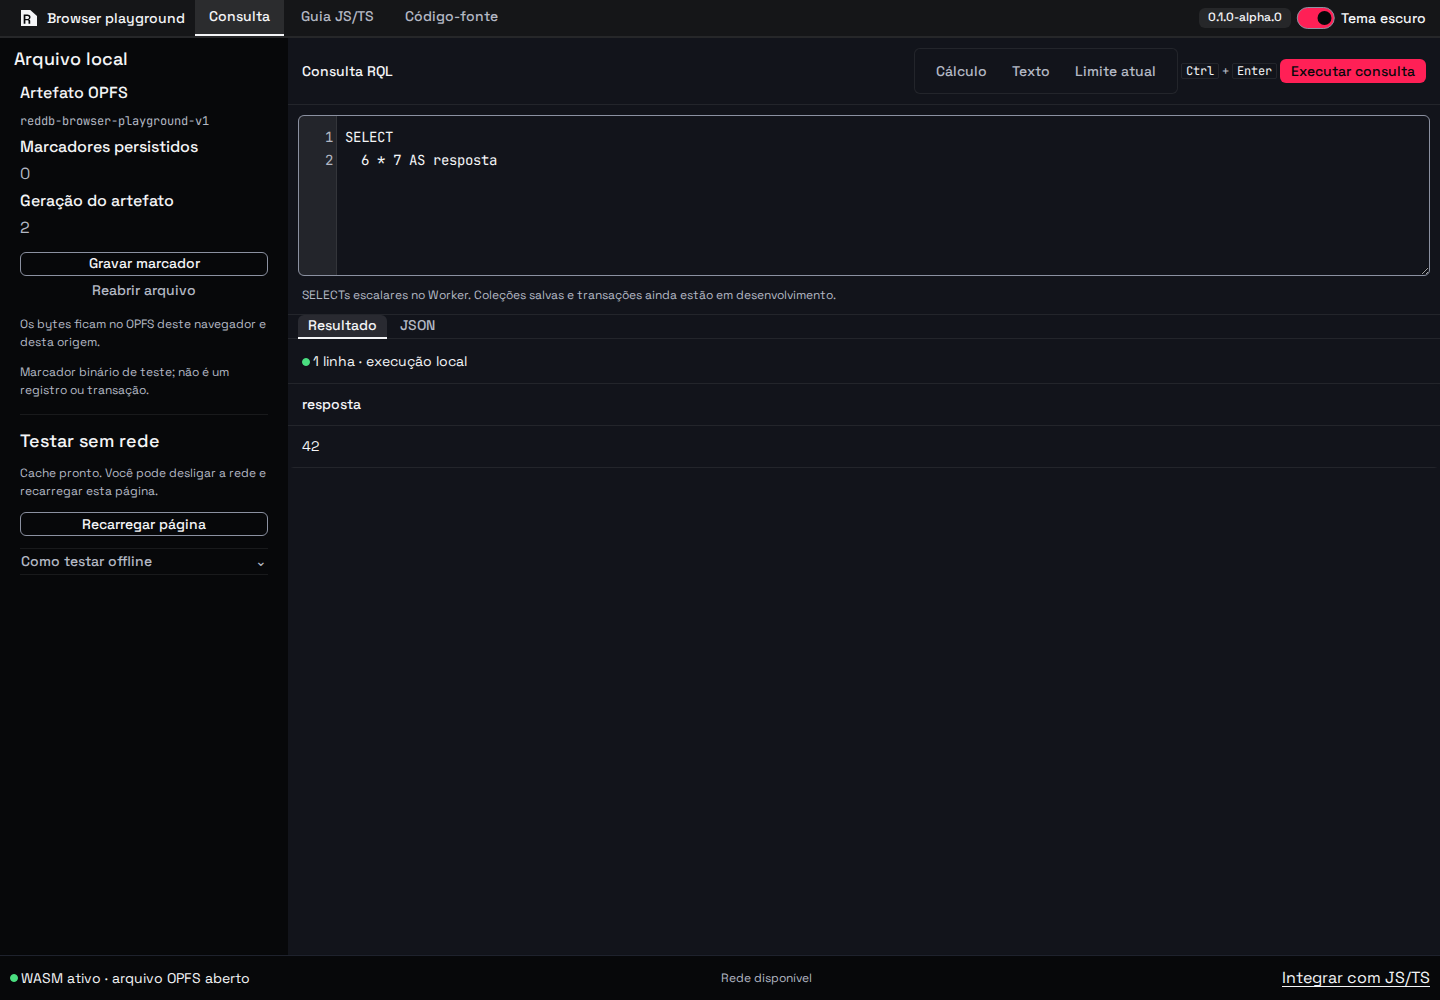
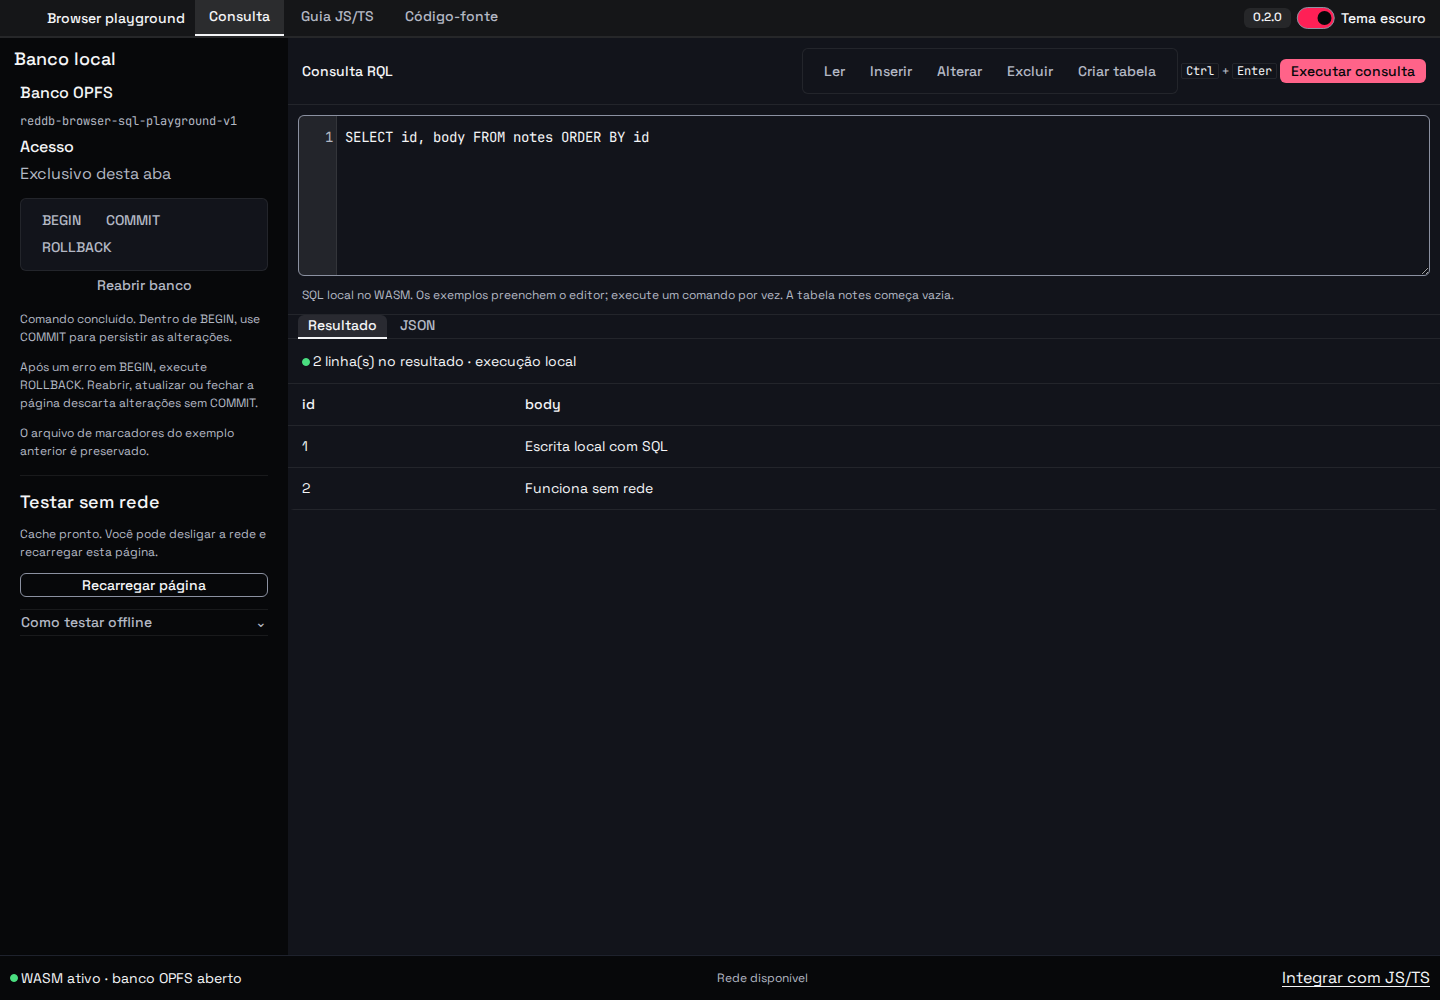
feat(browser): demonstrate local SQL and transactions in the playground

diff --git a/packages/browser-example/src/App.svelte b/packages/browser-example/src/App.svelte
@@ -8,28 +8,29 @@
   import CodeField from '@reddb-io/design-system/data/CodeField'
   import Table from '@reddb-io/design-system/data/Table'
   import { sqlGrammar } from './sql-grammar'
-  import { BrowserError, openArtifact, type Artifact } from '@reddb-io/browser'
+  import { BrowserError, openDatabase, type Database } from '@reddb-io/browser'
   import RedDBWorker from '@reddb-io/browser/worker?worker'
   import { version as browserVersion } from '@reddb-io/browser/package.json'
 
   let darkScheme = $state(true)
-  let sql = $state('SELECT\n  6 * 7 AS resposta')
+  const databaseName = 'reddb-browser-sql-playground-v1'
+  const createNotes = 'CREATE TABLE IF NOT EXISTS notes (id INTEGER PRIMARY KEY, body TEXT NOT NULL)'
+  const selectNotes = 'SELECT id, body FROM notes ORDER BY id'
+  let sql = $state(selectNotes)
   let result = $state('Aguardando o engine…')
-  let scalar = $state<{ columns: string[]; rows: unknown[][] }>()
+  let queryResult = $state<{ columns: string[]; rows: unknown[][] }>()
   let resultView = $state('table')
-  const columns = $derived(scalar?.columns.map((header, index) => ({
+  const columns = $derived(queryResult?.columns.map((header, index) => ({
     key: String(index), header,
     format: (value: unknown) => typeof value === 'string' ? value : JSON.stringify(value) ?? String(value),
   })) ?? [])
-  const rows = $derived(scalar?.rows.map(row => Object.fromEntries(row.map((value, index) => [String(index), value]))) ?? [])
+  const rows = $derived(queryResult?.rows.map(row => Object.fromEntries(row.map((value, index) => [String(index), value]))) ?? [])
   let error = $state('')
-  let artifact: Artifact | undefined = $state()
+  let database: Database | undefined = $state()
   let busy = $state(true)
   let engineState = $state('Abrindo o arquivo local…')
   let engineTone = $state<'info' | 'success' | 'danger'>('info')
-  let recordCount = $state('…')
-  let generation = $state('…')
-  let storageStatus = $state('Os bytes ficam no OPFS deste navegador e desta origem.')
+  let storageStatus = $state('O banco fica no OPFS deste navegador e desta origem.')
   let networkState = $state('')
   let offlineState = $state('Preparando o cache da aplicação…')
   let offlineReady = $state(false)
@@ -51,63 +52,64 @@
     } finally { busy = false }
   }
 
-  async function refreshFile() {
-    if (!artifact) return
-    const [payloads, current] = await Promise.all([artifact.readWal(), artifact.generation()])
-    recordCount = String(payloads.length)
-    generation = current
-  }
-
   async function query() {
-    if (!artifact) return
-    scalar = undefined
+    if (!database) return
+    queryResult = undefined
     result = 'Executando no Worker…'
     try {
       if (sql.length > 10000) throw new Error('A consulta deve ter no máximo 10.000 caracteres.')
-      scalar = await artifact.executeScalar(sql)
-      result = JSON.stringify(scalar, null, 2)
+      queryResult = await database.query(sql)
+      result = JSON.stringify(queryResult, null, 2)
+      storageStatus = 'Comando concluído. Dentro de BEGIN, use COMMIT para persistir as alterações.'
     }
-    catch (failure) { result = 'A consulta não foi executada.'; throw failure }
+    catch (failure) { result = 'Não foi possível confirmar a execução. Consulte o erro abaixo do editor.'; throw failure }
   }
 
   async function connect() {
-    const previous = artifact
-    artifact = undefined
+    const previous = database
+    database = undefined
     if (previous) await previous.close()
     engineState = 'Abrindo o arquivo local…'
     engineTone = 'info'
     const worker = new RedDBWorker()
     try {
-      artifact = await openArtifact({ name: 'reddb-browser-playground-v1', worker })
-      await refreshFile()
-      engineState = 'WASM ativo · arquivo OPFS aberto'
+      const opened = await openDatabase({ name: databaseName, create: true, worker })
+      try { await opened.query(createNotes) }
+      catch (failure) { await opened.close(); throw failure }
+      database = opened
+      engineState = 'WASM ativo · banco OPFS aberto'
       engineTone = 'success'
     } catch (failure) {
       worker.terminate()
-      artifact = undefined
-      engineState = 'Não foi possível abrir o arquivo'
+      database = undefined
+      engineState = 'Não foi possível abrir o banco'
       engineTone = 'danger'
       throw failure
     }
   }
 
-  async function appendMarker() {
-    // Opaque fixture bytes demonstrate artifact publication, not an engine WAL command.
-    await artifact!.append([new Uint8Array([0x52, 0x44, 0x42, 0x01])])
-    await refreshFile()
-    storageStatus = 'Marcador gravado no OPFS. Reabra o arquivo ou recarregue a página para conferir.'
+  async function transaction(command: 'BEGIN' | 'COMMIT' | 'ROLLBACK') {
+    sql = command
+    await query()
+    storageStatus = command === 'BEGIN'
+      ? 'BEGIN concluído. Use COMMIT ou ROLLBACK para encerrar a transação.'
+      : command === 'COMMIT'
+        ? 'COMMIT concluído. Alterações confirmadas no OPFS.'
+        : 'ROLLBACK concluído. Alterações pendentes descartadas.'
   }
 
   async function reopen() {
     await connect()
-    storageStatus = 'Arquivo reaberto por um novo Worker. Contador lido dos bytes persistidos.'
+    sql = selectNotes
+    await query()
+    storageStatus = 'Banco reaberto por um novo Worker. Alterações sem COMMIT foram descartadas.'
   }
 
   async function activateUpdate() {
     const worker = pendingUpdate
     if (!worker) return
-    await artifact?.close()
-    artifact = undefined
+    await database?.close()
+    database = undefined
     if (navigator.serviceWorker.controller !== worker) {
       await new Promise<void>(resolve => {
         navigator.serviceWorker.addEventListener('controllerchange', () => resolve(), { once: true })
@@ -171,9 +173,11 @@
   }
 
   const examples = [
-    { label: 'Cálculo', sql: 'SELECT 6 * 7 AS resposta' },
-    { label: 'Texto', sql: "SELECT 'sem rede' AS modo, 42 AS resposta" },
-    { label: 'Limite atual', sql: 'SELECT * FROM saves' },
+    { label: 'Ler', sql: selectNotes },
+    { label: 'Inserir', sql: "INSERT INTO notes (id, body) VALUES (1, 'Minha nota offline')" },
+    { label: 'Alterar', sql: "UPDATE notes SET body = 'Nota atualizada offline' WHERE id = 1" },
+    { label: 'Excluir', sql: 'DELETE FROM notes WHERE id = 1' },
+    { label: 'Criar tabela', sql: createNotes },
   ]
 
   onMount(() => {
@@ -187,14 +191,12 @@
     return () => {
       window.removeEventListener('online', network)
       window.removeEventListener('offline', network)
-      void artifact?.close()
+      void database?.close()
     }
   })
 </script>
 
-{#snippet fileName()}<code class="font-mono text-caption break-all">reddb-browser-playground-v1</code>{/snippet}
-{#snippet countValue()}<span id="record-count">{recordCount}</span>{/snippet}
-{#snippet generationValue()}<span id="generation">{generation}</span>{/snippet}
+{#snippet fileName()}<code class="font-mono text-caption break-all">{databaseName}</code>{/snippet}
 
 
 <ApplicationShell fullWidth class="md:h-dvh md:overflow-hidden">
@@ -225,7 +227,7 @@
         }}>
           <Alert id="app-update" tone="info" hidden={!pendingUpdate}>
             <Stack direction="row" align="center" justify="between" gap="sm" wrap>
-              <Text>Nova versão disponível. Atualize a aplicação para carregar a revisão publicada.</Text>
+              <Text>Nova versão disponível. Execute COMMIT antes de atualizar; alterações pendentes serão descartadas.</Text>
               <Button id="update-app" disabled={busy || !pendingUpdate} onclick={() => void action(activateUpdate)}>Atualizar aplicação</Button>
             </Stack>
           </Alert>
@@ -233,15 +235,15 @@
             <Stack direction="row" align="center" justify="between" gap="sm" wrap class="browser-toolbar">
               <h2 class="text-body font-medium">Consulta RQL</h2>
               <Stack direction="row" align="center" gap="sm" wrap>
-                <Toolbar label="Exemplos de consulta" size="sm" items={examples.map(example => ({
+                <Toolbar label="Exemplos de consulta" size="sm" class="min-w-0 max-w-full flex-wrap" items={examples.map(example => ({
                   id: example.label, label: example.label, onselect: () => { sql = example.sql },
                 }))} />
                 <Kbd keys={['Ctrl', 'Enter']} size="sm" />
-                <Button id="execute" variant="primary" size="sm" type="submit" disabled={busy || !artifact || sql.length > 10000}>Executar consulta</Button>
+                <Button id="execute" variant="primary" size="sm" type="submit" disabled={busy || !database || sql.length > 10000}>Executar consulta</Button>
               </Stack>
             </Stack>
             <CodeField id="sql" label="Consulta RQL" bind:value={sql} grammar={sqlGrammar} gutter rows={6} class="browser-code-field [&>label]:sr-only" />
-            <Text role="caption" class="browser-editor-note">Este exemplo executa SELECTs escalares. Para tabelas e transações, use openDatabase no Guia JS/TS.</Text>
+            <Text role="caption" class="browser-editor-note">SQL local no WASM. Os exemplos preenchem o editor; execute um comando por vez. A tabela notes começa vazia.</Text>
           </form>
           <Alert id="error" tone="danger" hidden={!error}>{error}</Alert>
           <section class="min-h-0 min-w-0 flex-1" aria-label="Resultado da consulta" id="query-result">
@@ -252,12 +254,12 @@
               {#snippet children({ value })}
                 <div class="browser-result-summary" role="status">
                   {#if busy}<LoadingIndicator label="Executando no Worker" size="sm" />
-                  {:else if scalar}<StatusIndicator tone="success" label={`${scalar.rows.length} linha · execução local`} />
+                  {:else if queryResult}<StatusIndicator tone="success" label={`${queryResult.rows.length} linha(s) no resultado · execução local`} />
                   {:else}<Text role="caption">{result}</Text>{/if}
                 </div>
                 {#if value === 'table'}
-                  {#if scalar}
-                    <Table caption="Resultado da consulta RQL" captionHidden columnVisibility={false} {columns} {rows} />
+                  {#if queryResult}
+                    <Table caption="Resultado da consulta RQL" captionHidden columnVisibility={false} emptyMessage="Sem linhas. Use Inserir para criar uma nota." {columns} {rows} />
                   {/if}
                 {:else}
                   <div class="browser-json"><CodeBlock code={result} language="JSON" copyLabel="Copiar resultado" copiedLabel="Copiado" copyErrorLabel="Falha ao copiar. Tente novamente." regionLabel="Resultado da consulta em JSON" /></div>
@@ -269,19 +271,21 @@
       </section>
 
       <aside aria-label="Persistência local e uso offline" class="min-h-0 min-w-0 @3xl/browser:col-start-1 @3xl/browser:row-start-1">
-        <SidebarPanel title="Arquivo local" class="h-full">
+        <SidebarPanel title="Banco local" class="h-full">
           <Stack gap="layout-sm" class="browser-file-content">
             <DescriptionList gap="sm" items={[
-              { term: 'Artefato OPFS', detail: fileName },
-              { term: 'Marcadores persistidos', detail: countValue },
-              { term: 'Geração do artefato', detail: generationValue },
+              { term: 'Banco OPFS', detail: fileName },
+              { term: 'Acesso', detail: 'Exclusivo desta aba' },
             ]} />
             <Stack gap="sm">
-              <Button id="append" size="sm" disabled={busy || !artifact} onclick={() => void action(appendMarker)}>Gravar marcador</Button>
-              <Button id="reopen" variant="ghost" size="sm" disabled={busy} onclick={() => void action(reopen)}>Reabrir arquivo</Button>
+              <Toolbar label="Transação SQL" size="sm" class="min-w-0 max-w-full flex-wrap" items={(['BEGIN', 'COMMIT', 'ROLLBACK'] as const).map(command => ({
+                id: command, label: command, disabled: busy || !database, onselect: () => void action(() => transaction(command)),
+              }))} />
+              <Button id="reopen" variant="ghost" size="sm" disabled={busy} onclick={() => void action(reopen)}>Reabrir banco</Button>
             </Stack>
             <div id="storage-status" role="status"><Text role="caption">{storageStatus}</Text></div>
-            <Text role="caption">Marcador binário de teste; não é um registro ou transação.</Text>
+            <Text role="caption">Após um erro em BEGIN, execute ROLLBACK. Reabrir, atualizar ou fechar a página descarta alterações sem COMMIT.</Text>
+            <Text role="caption">O arquivo de marcadores do exemplo anterior é preservado.</Text>
             <Divider />
             <section aria-labelledby="offline-heading">
               <Stack gap="layout-sm">
@@ -291,9 +295,10 @@
                 <Accordion label="Instruções para teste offline" items={[{ value: 'offline', label: 'Como testar offline' }]}>
                   <Prose>
                     <ol>
-                      <li>Grave um marcador e aguarde o cache.</li>
+                      <li>Execute Inserir e confirme com COMMIT se iniciou BEGIN.</li>
+                      <li>Aguarde o cache ficar pronto.</li>
                       <li>Desligue a rede do navegador.</li>
-                      <li>Recarregue e confira o contador.</li>
+                      <li>Recarregue e use Ler para conferir suas notas.</li>
                     </ol>
                   </Prose>
                   <Text role="caption">Limpar os dados do site remove o arquivo e o cache. As políticas de quota do navegador se aplicam.</Text>

diff --git a/packages/browser-example/src/sql-grammar.ts b/packages/browser-example/src/sql-grammar.ts
@@ -1,8 +1,8 @@
-// From the DS v2026.10.30 red-ui query reference (apps/showcase/src/lib/sql-grammar.ts).
+// Based on the DS v2026.10.30 red-ui query reference, extended for local table SQL.
 import type { CodeFieldGrammar, CodeFieldToken } from "@reddb-io/design-system/data/CodeField";
 
 const SQL_KEYWORDS = new Set(
-  "select from where join left inner on and or not in as order by group having limit offset desc asc distinct count sum avg min max case when then else end is null like between with union all explain"
+  "select from where join left inner on and or not in as order by group having limit offset desc asc distinct count sum avg min max case when then else end is null like between with union all explain create table if exists primary key integer text insert into values update set delete begin commit rollback"
     .split(" "),
 );
 

diff --git a/packages/browser-example/README.md b/packages/browser-example/README.md
@@ -7,12 +7,24 @@ This is a real Svelte 5/TypeScript/Vite application using the **published**
 No Rust build, RedDB server, CDN, account or external API is required at runtime.
 The build pins the registry distribution, not a link to unpublished workspace source.
 
-The interface demonstrates scalar SELECTs, explicit unsupported stored-data queries,
-exclusive artifact ownership and an opaque binary test marker persisted in OPFS.
-The marker exercises `.rdb` artifact publication; it is not a collection record,
-SQL command or application transaction. For local table CRUD and transactions,
-use `openDatabase` as shown in the [JS/TS guide](https://github.com/reddb-io/reddb/blob/main/docs/clients/browser.md).
-This page exercises the artifact and scalar APIs.
+The interface opens a local SQL database with `openDatabase`, creates an empty
+`notes (id INTEGER PRIMARY KEY, body TEXT NOT NULL)` table if missing, and executes
+CREATE TABLE, INSERT, UPDATE, DELETE and SELECT through the published `query` API.
+Examples fill the editor; use **Executar consulta** or Ctrl/Command+Enter to run
+one statement at a time. The INSERT example uses ID 1; update/delete it or supply
+a new ID before inserting again.
+
+BEGIN, COMMIT and ROLLBACK controls send real SQL to the engine. Reads within a
+transaction see staged writes; a successful COMMIT makes them durable. Statement
+errors abort an active transaction until ROLLBACK. The UI displays the engine's
+responses rather than inferring transaction state from SQL text. Reopening,
+reloading, closing or updating the application discards changes without COMMIT.
+
+The SQL database uses `reddb-browser-sql-playground-v1`, exclusively owned by one
+tab. The previous example's `reddb-browser-playground-v1` marker file is preserved
+and is not converted or overwritten. See the
+[JS/TS guide](https://github.com/reddb-io/reddb/blob/main/docs/clients/browser.md)
+for integration, supported table SQL and current engine limits.
 
 ## Run locally
 
@@ -30,8 +42,10 @@ pnpm --filter @reddb-io/browser-example build
 pnpm --filter @reddb-io/browser-example exec vite preview --host 127.0.0.1
 ```
 
-Open the printed localhost URL. After the cache-ready message, write a marker,
-disable networking and reload. The count and scalar execution should survive.
+Open the printed localhost URL. Run **Inserir**, then **Ler**. After the
+cache-ready message, disable networking and reload. The committed note and SQL
+execution should survive. Use BEGIN, edit a note and ROLLBACK to discard it, or
+COMMIT to persist it. Reopen the database to recover only committed rows.
 The development server intentionally does not register an offline service worker.
 Close other tabs using this example if `FILE_BUSY` appears. Clearing this origin's
 site data removes the test file and its cached application assets.
@@ -46,7 +60,9 @@ pnpm --filter @reddb-io/browser-example test
 
 The tests serve the production build under `/reddb/browser/`, exercise query errors,
 file ownership and mobile layout, then shut down the complete browser and HTTP
-listener before reopening offline. They also write and reopen another marker offline.
+listener before two offline browser restarts. They verify CRUD, commit/rollback,
+aborted transactions, own-write visibility, offline write recovery and discard
+of uncommitted changes on reopen, close and service-worker activation.
 Storage-unsupported hosts must show an error and keep query/write controls disabled.
 
 The same tests can target the deployed application:
@@ -61,7 +77,8 @@ these sources into `docs/browser/` for the upload; generated output is not commi
 The example's versioned offline cache is restricted to its own path and never clears
 other applications' caches. Service worker updates are offered through an explicit
 "Atualizar aplicação" action. The control waits for current work to finish, closes
-the local artifact, activates the cached update and reloads. The normal browser
+the local database, discards uncommitted changes, activates the cached update
+and reloads. The update notice asks users to COMMIT first. The normal browser
 lifecycle also activates an update after existing tabs close. Version parameters
 on the page URL still support offline reload after the current worker is active.
 
@@ -79,11 +96,12 @@ results under the editor, and a runtime status bar. ApplicationShell owns the ma
 landmark and skip navigation; Navbar owns product navigation. On narrow containers,
 artifact controls follow the query/result regions. Page chrome follows the viewport.
 
-Results are the actual scalar engine response, rendered by the Data Table with
+Results are the actual SQL engine response, rendered by the Data Table with
 columns mapped by position (including repeated aliases). A JSON tab preserves the
 original response. Ctrl/Command+Enter runs the focused query workspace. The local
 SQL tokenizer comes from the pinned DS reference and only controls highlighting;
-query semantics still belong to the WASM engine. Query source remains bounded at
+query semantics still belong to the WASM engine. Local highlighting extends the
+reference keyword set for table DDL/DML and transactions. Query source remains bounded at
 10,000 characters.
 
 The initial appearance is Application, dark and compact, matching the canonical
@@ -114,5 +132,6 @@ Rendered examples of the application composition:
 [Desktop, dark](docs/playground-desktop-dark.png) · [Desktop, light](docs/playground-desktop.png) · [Mobile, dark](docs/playground-mobile-dark.png).
 
 The local browser suite also installs a changed worker revision, verifies that it
-waits for explicit activation, updates through the real UI, retains a persisted
-marker and reloads a versioned page URL without any HTTP request.
+waits for explicit activation, updates through the real UI, retains a committed
+note, discards a pending transaction and reloads a versioned page URL without
+any HTTP request.

diff --git a/docs/clients/browser.md b/docs/clients/browser.md
@@ -88,9 +88,12 @@ for the version check, structured error envelopes and offline asset requirements
 
 Open the [interactive playground](https://reddb-io.github.io/reddb/browser/).
 It installs the published npm package and bundles JS, Worker and WASM with the page.
-Run a scalar SELECT, append an opaque binary test marker, reopen the OPFS artifact,
-then disable networking and reload once the offline cache is ready. The marker is
-artifact I/O evidence, not a collection record or application transaction.
+The page creates an empty local `notes` table. Choose Inserir and execute the
+statement, then use Ler, Alterar or Excluir. BEGIN/COMMIT/ROLLBACK controls operate
+on the same real database. Disable networking after the offline cache is ready,
+reload and query your committed notes again. Reopening or updating the page
+discards changes without COMMIT. The older binary-marker artifact is preserved
+under its separate filename.
 
 [Example source and local commands](https://github.com/reddb-io/reddb/tree/main/packages/browser-example).
 
